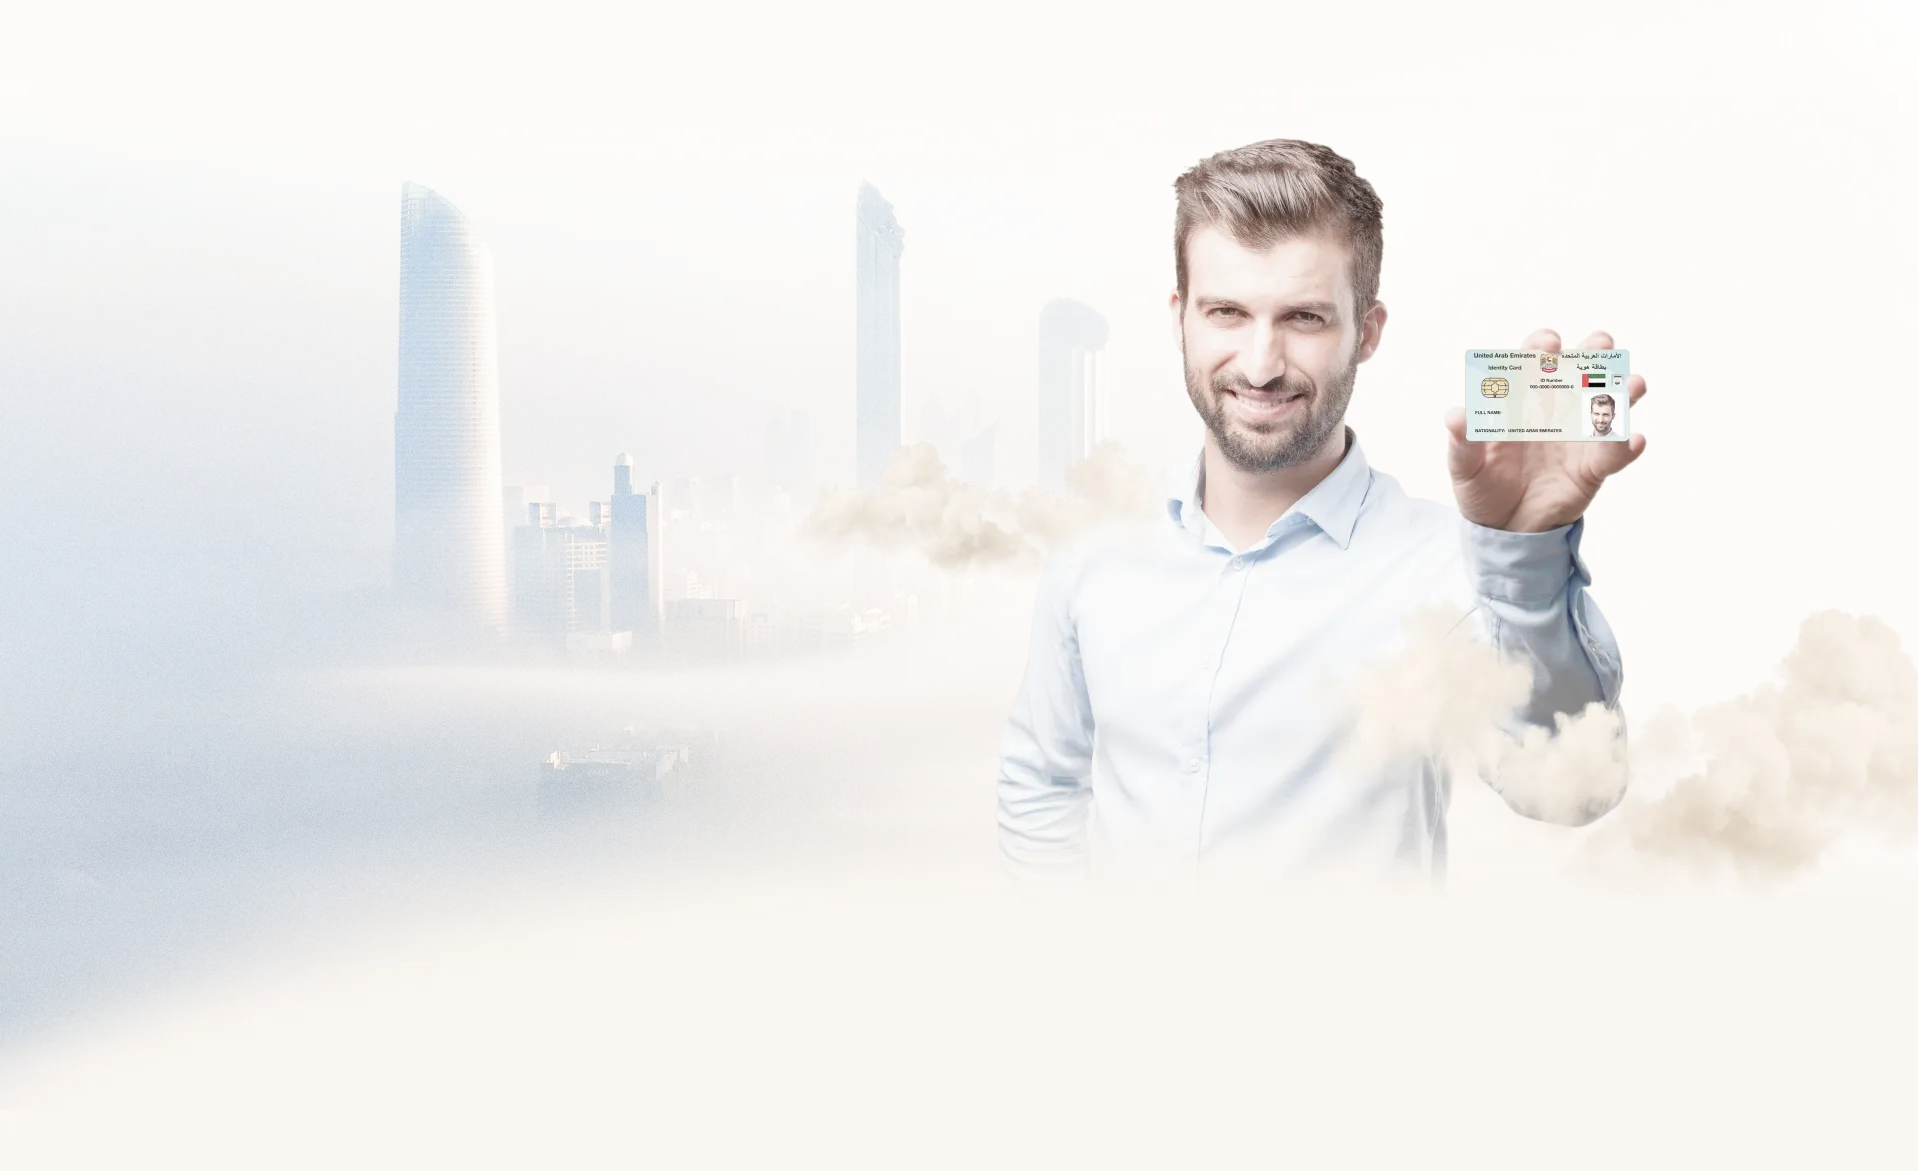
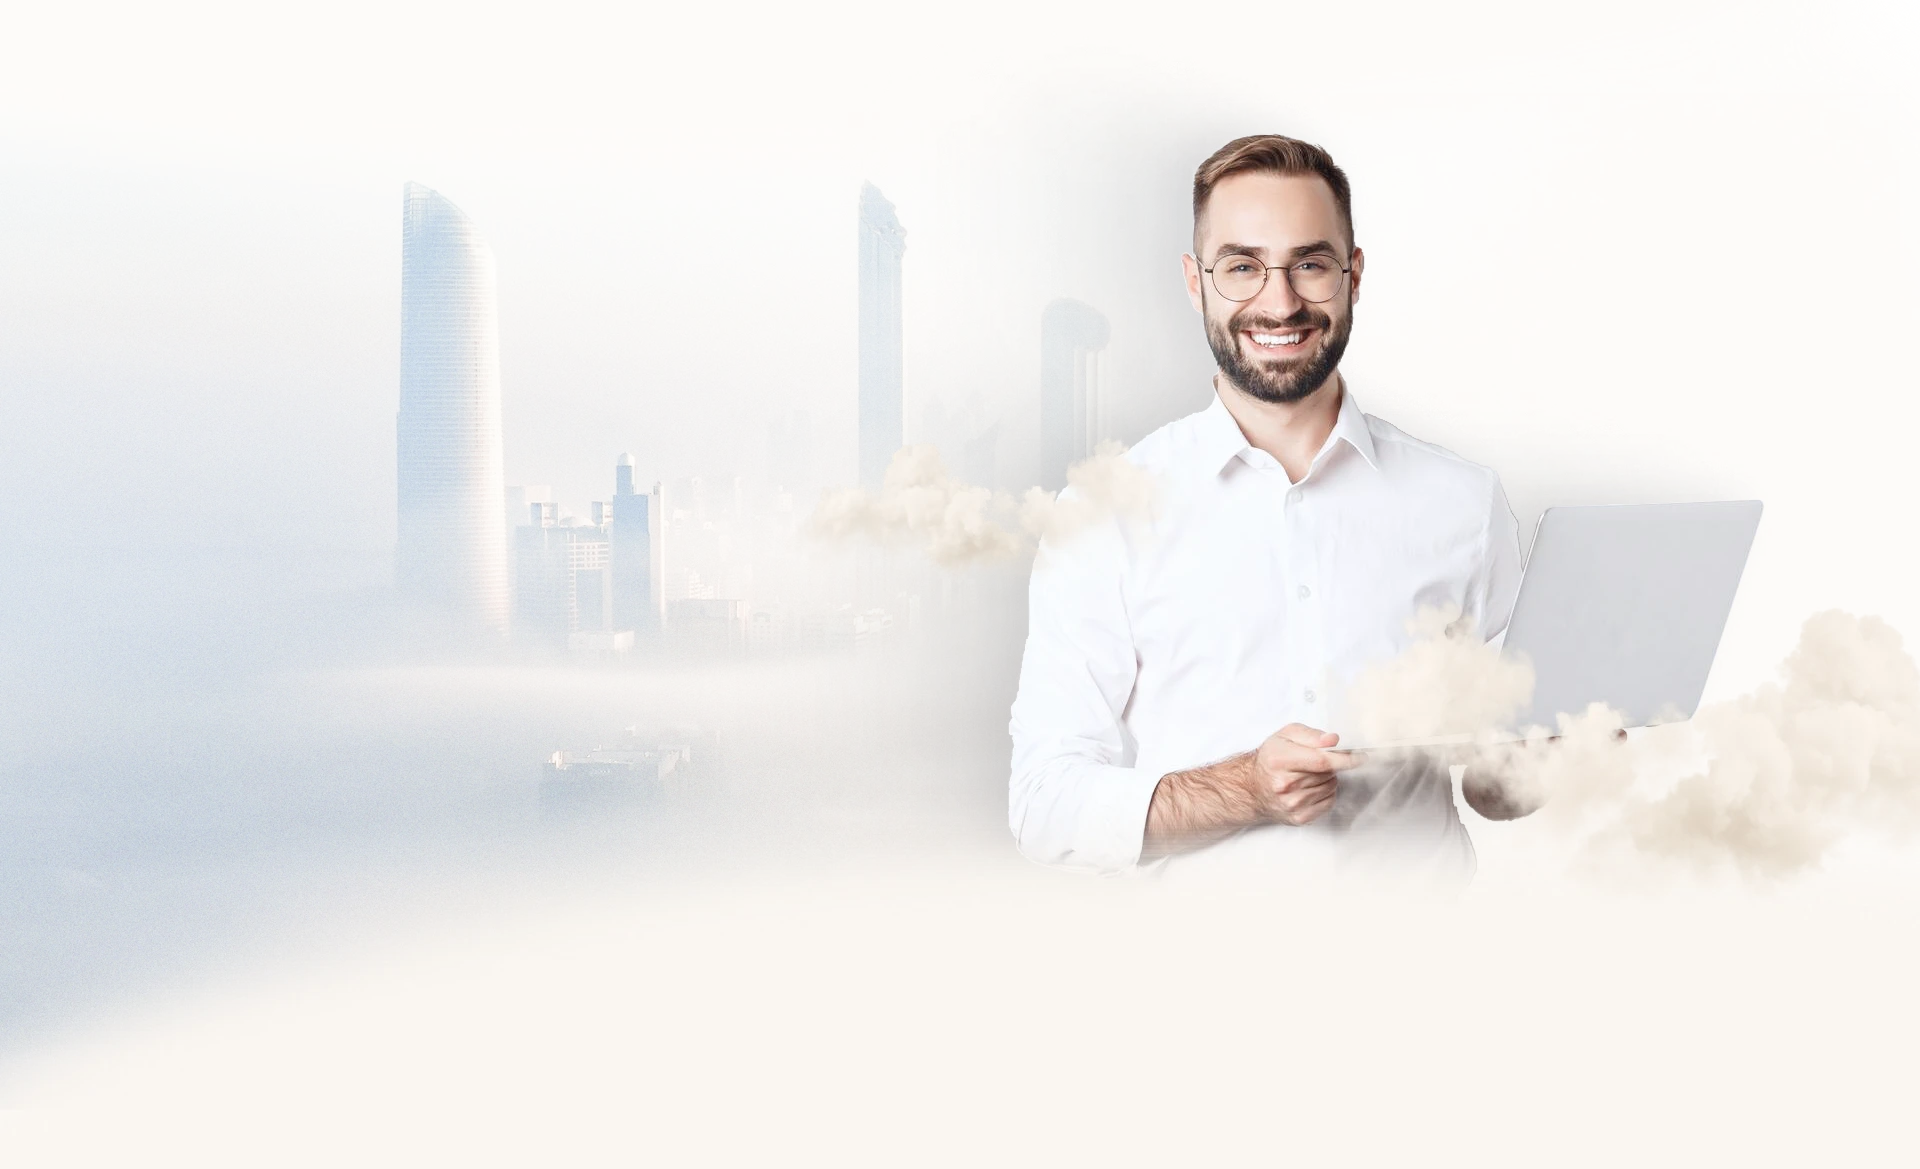
feat: cases section + new background

Changed region(s): [[0.5537, 0.0924, 0.9228, 0.6467], [0.4922, 0.4619, 0.8613, 0.7391], [0.5229, 0.4003, 0.5537, 0.4311]]

diff --git a/src/pages/index/index.html b/src/pages/index/index.html
@@ -731,7 +731,106 @@
         <!-- Section-6 -->
         <section class="cases">
             <div class="container">
+                <h2 class="cases__title">Кейсы наших<br>клиентов</h2>
 
+                <div class="cases__wrapper">
+
+                    <!-- Item-1 -->
+                    <div class="cases__item">
+                        <h3 class="cases__name">Кейс 1</h3>
+                        <p class="cases__subtitle">Экспорт оборудования из Китая<br> в Казахстан</p>
+
+                        <img src="./img/case/case-1.webp" alt="case-1" class="cases__img">
+
+                        <div class="cases__text">
+                            <p>Клиент, занимающийся поставками промышленного оборудования из Китая в Казахстан, нуждался в надёжной структуре для международных расчётов и упрощения бизнес-процессов.</p>
+
+                            <p>Решение: Мы зарегистрировали компанию клиента в одной из фризон ОАЭ в течение 5 рабочих дней, что позволило вести деятельность с прозрачными условиями налогообложения. Клиент платит корпоративный налог 9% на доходы компании, так как оборот превышает установленный порог. </p>
+
+                            <p>Для удобства ведения учёта мы также организовали полное бухгалтерское и налоговое сопровождение, включая ежемесячные отчёты и помощь в ведении расчётов.</p>
+                        </div>
+
+                        <div class="cases__bottom">
+
+                            <!-- Box-1 -->
+                            <div class="cases__bottom-box">
+                                <div class="cases__bottom-title">Сроки и стоимость решения:</div>
+                                <div class="cases__bottom-description">5 рабочих дней.</div>
+                            </div>
+                            
+                            <!-- Box-2 -->
+                            <div class="cases__bottom-box">
+                                <div class="cases__bottom-title">Стоимость:</div>
+                                <div class="cases__bottom-description">22,000 AED, включая регистрацию компании и полное сопровождение.</div>
+                            </div>
+
+                        </div>
+                    </div>
+
+                    <!-- Item-2 -->
+                    <div class="cases__item">
+                        <h3 class="cases__name">Кейс 2</h3>
+                        <p class="cases__subtitle">IT-аутсорсинг для клиентов<br>в ЕС и США</p>
+
+                        <img src="./img/case/case-2.webp" alt="case-2" class="cases__img">
+
+                        <div class="cases__text">
+                            <p>Клиент — IT-компания, предоставляющая аутсорсинговые услуги для европейских и американских заказчиков, столкнулся с проблемами в приёме международных платежей и поиске надёжной юридической структуры для стабильных расчётов с зарубежными клиентами.</p>
+
+                            <p>Решение: Мы зарегистрировали компанию в одной из фризон ОАЭ за 5 рабочих дней, что позволило клиенту избежать НДС, так как деятельность ведётся за пределами ОАЭ. Дополнительно была оказана поддержка по открытию банковского счёта для международных платежей, с учётом требований клиента к конвертации валют. Для создания юридического присутствия были оформлены резидентские визы для учредителей и ключевых сотрудников. Также обеспечено бухгалтерское и налоговое сопровождение, включающее ежемесячную отчётность и консультирование по оптимизации международных операций.</p>
+
+                            <p><span>Проблема клиента:</span> Необходимость законной структуры для приёма международных платежей и упрощения валютных расчётов.</p>
+                        </div>
+
+                        <div class="cases__bottom">
+
+                            <!-- Box-1 -->
+                            <div class="cases__bottom-box">
+                                <div class="cases__bottom-title">Сроки и стоимость решения:</div>
+                                <div class="cases__bottom-description">5 рабочих дней.</div>
+                            </div>
+                            
+                            <!-- Box-2 -->
+                            <div class="cases__bottom-box">
+                                <div class="cases__bottom-title">Стоимость:</div>
+                                <div class="cases__bottom-description">22,000 AED, включая регистрацию компании и полное сопровождение.</div>
+                            </div>
+
+                        </div>
+                    </div>
+
+                    <!-- Item-3 -->
+                    <div class="cases__item">
+                        <h3 class="cases__name">Кейс 3</h3>
+                        <p class="cases__subtitle">Услуги в сфере логистики и транспорта на рынках Ближнего Востока</p>
+
+                        <img src="./img/case/case-3.webp" alt="case-3" class="cases__img">
+
+                        <div class="cases__text">
+                            <p>Клиент — логистическая компания, ориентированная на предоставление услуг транспортировки и складирования на территории Ближнего Востока, нуждался в регистрации компании в ОАЭ для ведения бизнеса напрямую внутри страны и взаимодействия с местными партнёрами.</p>
+
+                            <p><span>Решение:</span> Мы зарегистрировали компанию клиента в mainland, что позволило вести полноценную деятельность в ОАЭ и работать с местными заказчиками. Вместо полноценного офиса клиенту потребовалось минимальное офисное пространство для регистрации, что сократило затраты. Были также проведены переговоры с банками для открытия корпоративного счёта, подходящего для регулярных внутренних и международных операций. Клиент получил налоговое консультирование, включая управление НДС на внутреннем рынке.</p>
+
+                            <p><span>Проблема клиента:</span> Необходимость легального присутствия в ОАЭ для работы с местными партнёрами и проведения операций внутри страны.</p>
+                        </div>
+
+                        <div class="cases__bottom">
+
+                            <!-- Box-1 -->
+                            <div class="cases__bottom-box">
+                                <div class="cases__bottom-title">Сроки и стоимость решения:</div>
+                                <div class="cases__bottom-description">10 рабочих дней.</div>
+                            </div>
+                            
+                            <!-- Box-2 -->
+                            <div class="cases__bottom-box">
+                                <div class="cases__bottom-title">Стоимость:</div>
+                                <div class="cases__bottom-description">26,000 AED, включая регистрацию компании и полное сопровождение.</div>
+                            </div>
+
+                        </div>
+                    </div>
+                </div>
             </div>
         </section>
 

diff --git a/src/pages/index/scss/section/_cases.scss b/src/pages/index/scss/section/_cases.scss
@@ -1,0 +1,152 @@
+.cases {
+    margin: 78px 0 0 0;
+
+    &__title {
+        color: var(--text-main);
+        font-size: clamp(3rem, 2.286rem + 3.57vw, 5.5rem);
+        font-weight: 800;
+        line-height: clamp(2.813rem, 2.277rem + 2.68vw, 4.688rem);
+        text-align: center;
+    }
+
+    &__wrapper {
+        margin: 40px 0 0 0;
+        display: flex;
+        align-items: center;
+        justify-content: center;
+        flex-direction: column;
+        gap: 30px;
+    }
+
+    &__item {
+        display: flex;
+        flex-direction: column;
+        padding: 30px 0 30px 0;
+        width: 280px;
+        border-radius: 8px;
+        background: var(--bg-box);
+    }
+
+    &__name {
+        padding: 0 10px 0 10px;
+        color: var(--text-active);
+        font-size: 20px;
+        font-weight: 700;
+        line-height: 24px;
+    }
+
+    &__subtitle {
+        padding: 0 10px 0 10px;
+        margin: 4px 0 0 0;
+        color: var(--text-title);
+        font-size: 19px;
+        font-weight: 700;
+        line-height: 24px;
+        text-transform: uppercase;
+    }
+
+    &__img {
+        margin: 18px 0 0 0;
+        position: relative;
+        width: 100%;
+        height: 180px;
+    }
+
+    &__text {
+        margin: 30px 0 0 0;
+        padding: 0 10px 0 10px;
+        flex-grow: 1;
+
+        p {
+            margin: 20px 0 0;
+
+            color: var(--text-main);
+            font-size: 20px;
+            font-weight: 400;
+            line-height: 24px;
+
+            span {
+                font-size: 20px;
+                font-weight: 400;
+                line-height: 24px;
+                color: var(--text-active);
+            }
+        }
+    }
+
+    &__bottom {
+        margin: 30px 0 0 0;
+        padding: 0 10px 0 10px;
+    }
+
+    &__bottom-box {
+        padding: 10px 0 20px 0;
+        border-top: 1px dashed #e0e0e0;
+    }
+
+    &__bottom-box:last-child {
+        padding: 10px 0 0 0;
+    }
+
+    &__bottom-title {
+        font-size: 20px;
+        font-weight: 400;
+        line-height: 24px;
+        color: var(--text-active);
+    }
+
+    &__bottom-description {
+        font-size: 20px;
+        font-weight: 400;
+        line-height: 24px;
+        color: var(--text-main);
+    }
+}
+
+@media(min-width: 425px) {
+    .cases {
+        &__item {
+            width: 300px;
+        }
+    }
+}
+@media(min-width: 768px) {
+    .cases {
+        &__item {
+            width: 380px;
+        }
+        
+        &__name {
+            padding: 0 40px 0 40px;
+        }
+
+        &__subtitle {
+            padding: 0 40px 0 40px;
+        }
+
+        &__img {}
+
+        &__text {
+            padding: 0 40px 0 40px;
+        }
+
+        &__bottom {
+            padding: 0 40px 0 40px;
+        }
+
+        &__bottom-box {}
+
+        &__bottom-title {}
+
+        &__bottom-description {}
+    }
+}
+@media(min-width: 1024px) {
+    .cases {
+        &__wrapper {
+            flex-direction: row;
+            align-items: unset;
+            margin: 74px 0 0 0;
+        }
+    }
+}

diff --git a/src/pages/index/scss/base-and-block.scss b/src/pages/index/scss/base-and-block.scss
@@ -60,7 +60,7 @@ a {
         background: url("../img/bg-2.webp");
         background-repeat: no-repeat;
         // background-size: 100px 100px;
-        background-position: right 3320px;
+        background-position: right 3570px;
         // background-size: cover;
         z-index: -1;
     }
@@ -76,7 +76,7 @@ a {
         background: url("../img/bg-3.webp");
         background-repeat: no-repeat;
         // background-size: 100px 100px;
-        background-position: center 6410px;
+        background-position: center 5640px;
         // background-size: cover;
         z-index: -1;
     }

diff --git a/src/pages/index/scss/section/_hero.scss b/src/pages/index/scss/section/_hero.scss
@@ -4,8 +4,8 @@
     background: url("../img/bg-mob-1.webp");
     background-repeat: no-repeat;
     // background-size: 100% 100%;
-    background-position: clamp(-16.25rem, -25.625rem + 46.88vw, -3.125rem) 60px;
-    // background-size: cover;
+    background-position: center calc(0% - 210px);
+    background-size: cover;
 
     &__top-title {
         color: #9eadc0;

diff --git a/src/pages/index/scss/section/_obtaining.scss b/src/pages/index/scss/section/_obtaining.scss
@@ -89,7 +89,7 @@
     .obtaining {
         &__wrapper {
             grid-template-columns: repeat(1, 300px);
-            grid-auto-rows: 200px;
+            grid-auto-rows: 230px;
         }
     }
 }

diff --git a/src/pages/index/scss/index.scss b/src/pages/index/scss/index.scss
@@ -8,6 +8,7 @@
 @use "section/obtaining";
 @use "section/guarantees";
 @use "section/other-services";
+@use "section/cases";
 @use "section/price";
 @use "section/contacts";
 @use "section/bottom";
